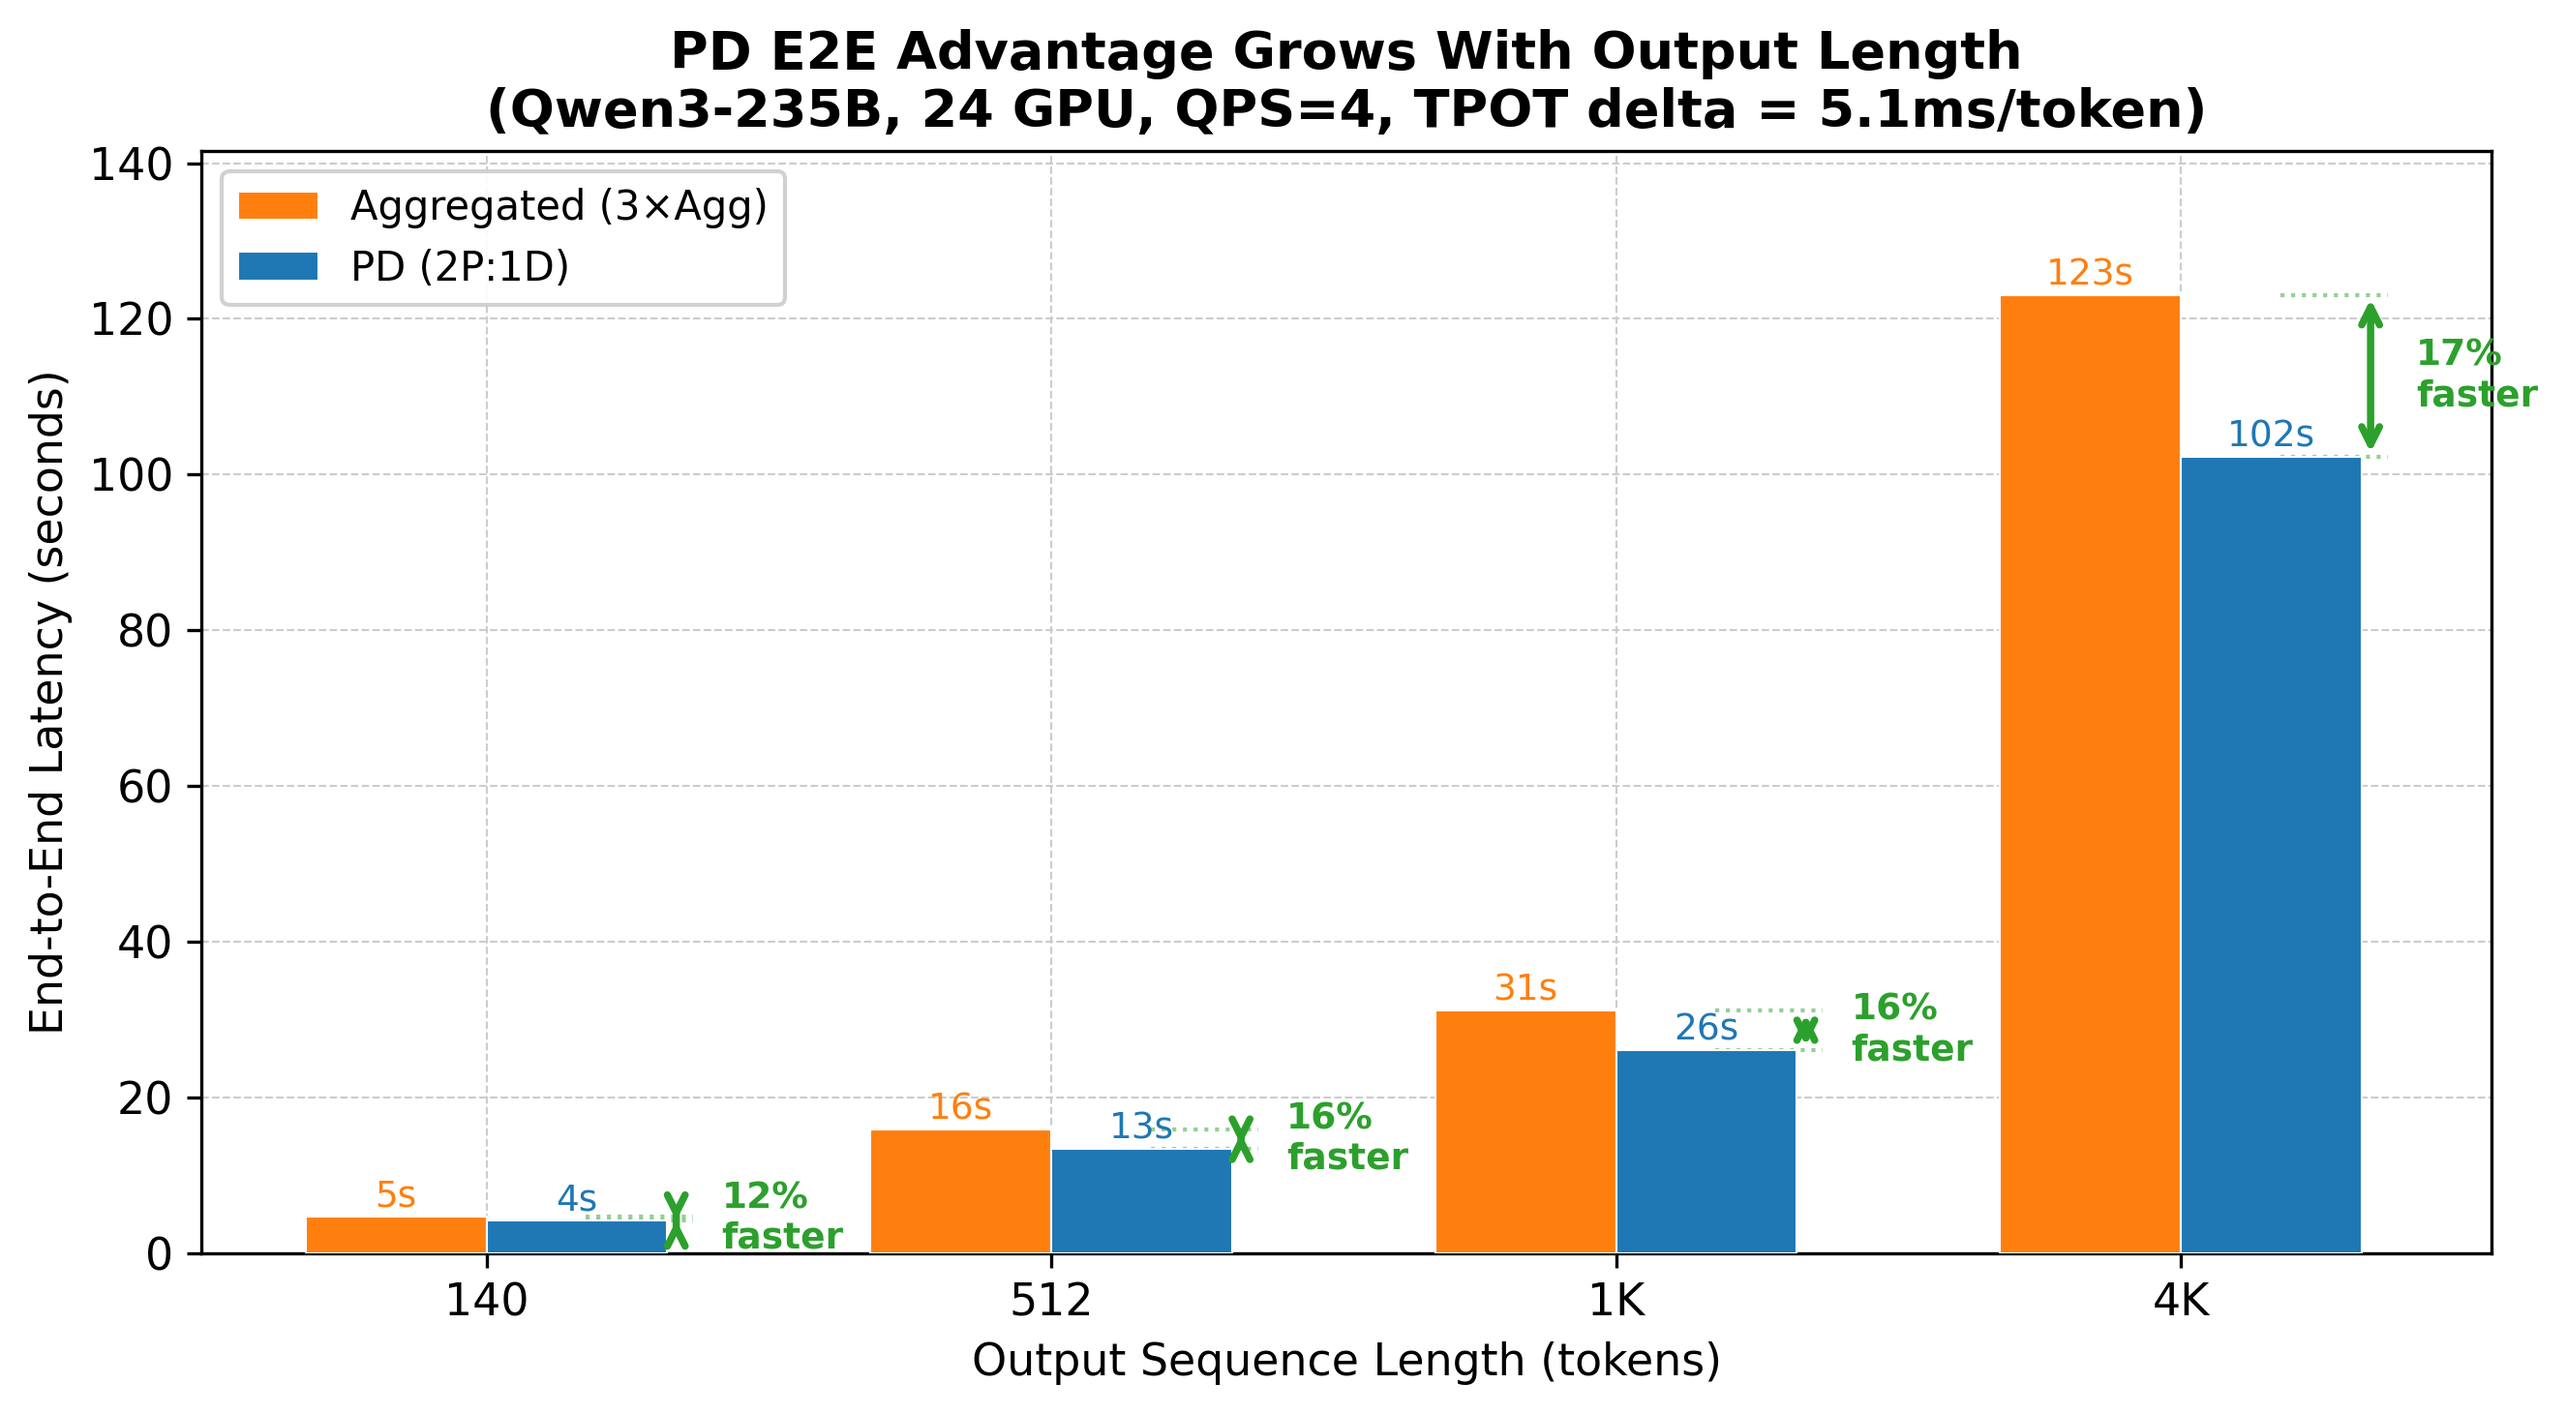
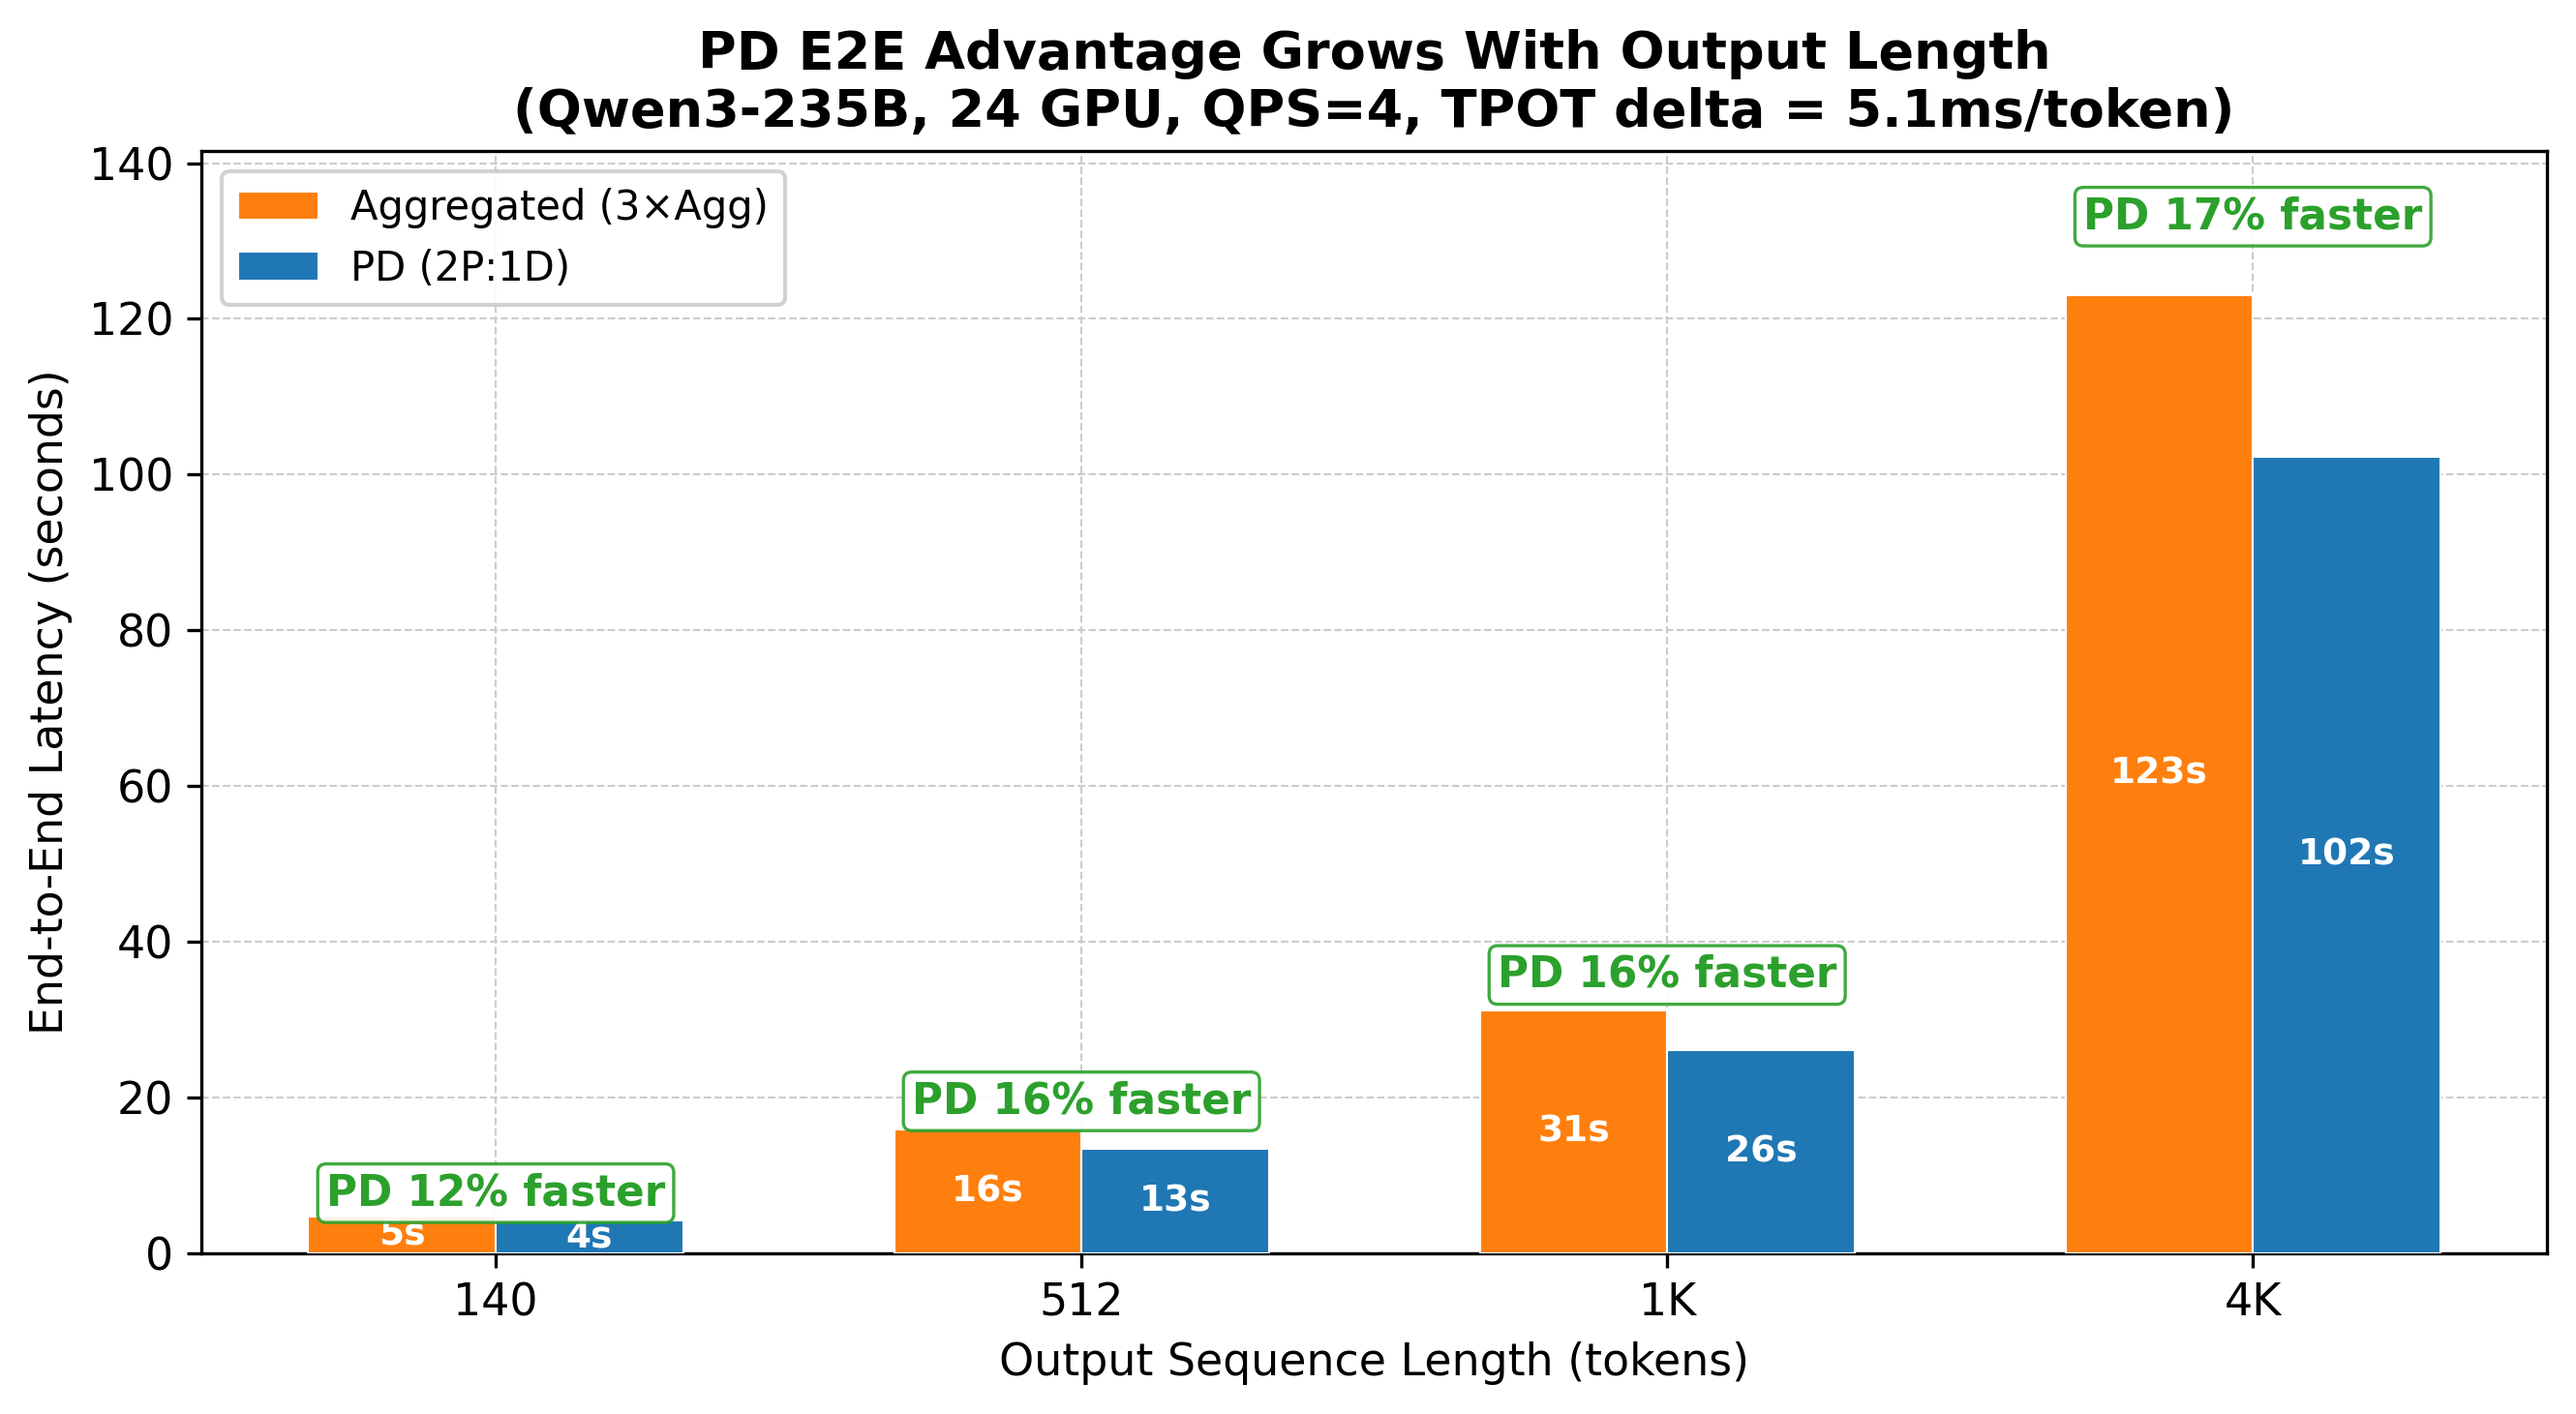
Insight 3 chart: replace arrows with % labels above bar pairs

Changed region(s): [[0.1237, 0.0924, 0.9898, 0.9856], [0.1856, 0.0, 0.8661, 0.0924], [0.1237, 0.1232, 0.3093, 0.2156]]

diff --git a/scripts/generate_blog_charts.py b/scripts/generate_blog_charts.py
@@ -505,35 +505,27 @@ def fig4b_tpot_compounding():
     bars_pd = ax.bar(x + width / 2, pd_e2e, width, color=COLOR_PD,
                       edgecolor="white", linewidth=0.5, label="PD (2P:1D)", zorder=3)
 
-    # Label bar values
+    # Label bar values inside bars (bottom)
     for bar in bars_agg:
         h = bar.get_height()
-        ax.text(bar.get_x() + bar.get_width() / 2, h + 0.3,
-                f"{h:.0f}s", ha="center", va="bottom", fontsize=9, color=COLOR_AGG)
+        ax.text(bar.get_x() + bar.get_width() / 2, h * 0.5,
+                f"{h:.0f}s", ha="center", va="center", fontsize=9,
+                color="white", fontweight="bold")
     for bar in bars_pd:
         h = bar.get_height()
-        ax.text(bar.get_x() + bar.get_width() / 2, h + 0.3,
-                f"{h:.0f}s", ha="center", va="bottom", fontsize=9, color=COLOR_PD)
+        ax.text(bar.get_x() + bar.get_width() / 2, h * 0.5,
+                f"{h:.0f}s", ha="center", va="center", fontsize=9,
+                color="white", fontweight="bold")
 
-    # Annotate % improvement with arrow between each pair
+    # Annotate % improvement centered above each pair
     for i in range(len(osls)):
-        hi = agg_e2e[i]
-        lo = pd_e2e[i]
-        bracket_x = x[i] + width / 2 + width * 0.55
-
-        ax.plot([x[i] + width / 2 + width * 0.05, bracket_x + 0.03], [hi, hi],
-                color=COLOR_WINNER, linestyle=":", linewidth=1.0, alpha=0.5)
-        ax.plot([x[i] + width / 2 + width * 0.05, bracket_x + 0.03], [lo, lo],
-                color=COLOR_WINNER, linestyle=":", linewidth=1.0, alpha=0.5)
-
-        ax.annotate("", xy=(bracket_x, lo), xytext=(bracket_x, hi),
-                     arrowprops=dict(arrowstyle="<->", color=COLOR_WINNER, lw=1.8,
-                                     shrinkA=1, shrinkB=1))
-
-        ax.text(bracket_x + 0.08, (hi + lo) / 2,
-                f"{pct_win[i]:.0f}%\nfaster",
-                ha="left", va="center", fontsize=9, fontweight="bold",
-                color=COLOR_WINNER)
+        top = max(agg_e2e[i], pd_e2e[i])
+        ax.text(x[i], top + top * 0.06,
+                f"PD {pct_win[i]:.0f}% faster",
+                ha="center", va="bottom", fontsize=10.5, fontweight="bold",
+                color=COLOR_WINNER,
+                bbox=dict(boxstyle="round,pad=0.2", facecolor="white",
+                          edgecolor=COLOR_WINNER, alpha=0.9, linewidth=0.8))
 
     ax.set_xticks(x)
     ax.set_xticklabels(labels)
